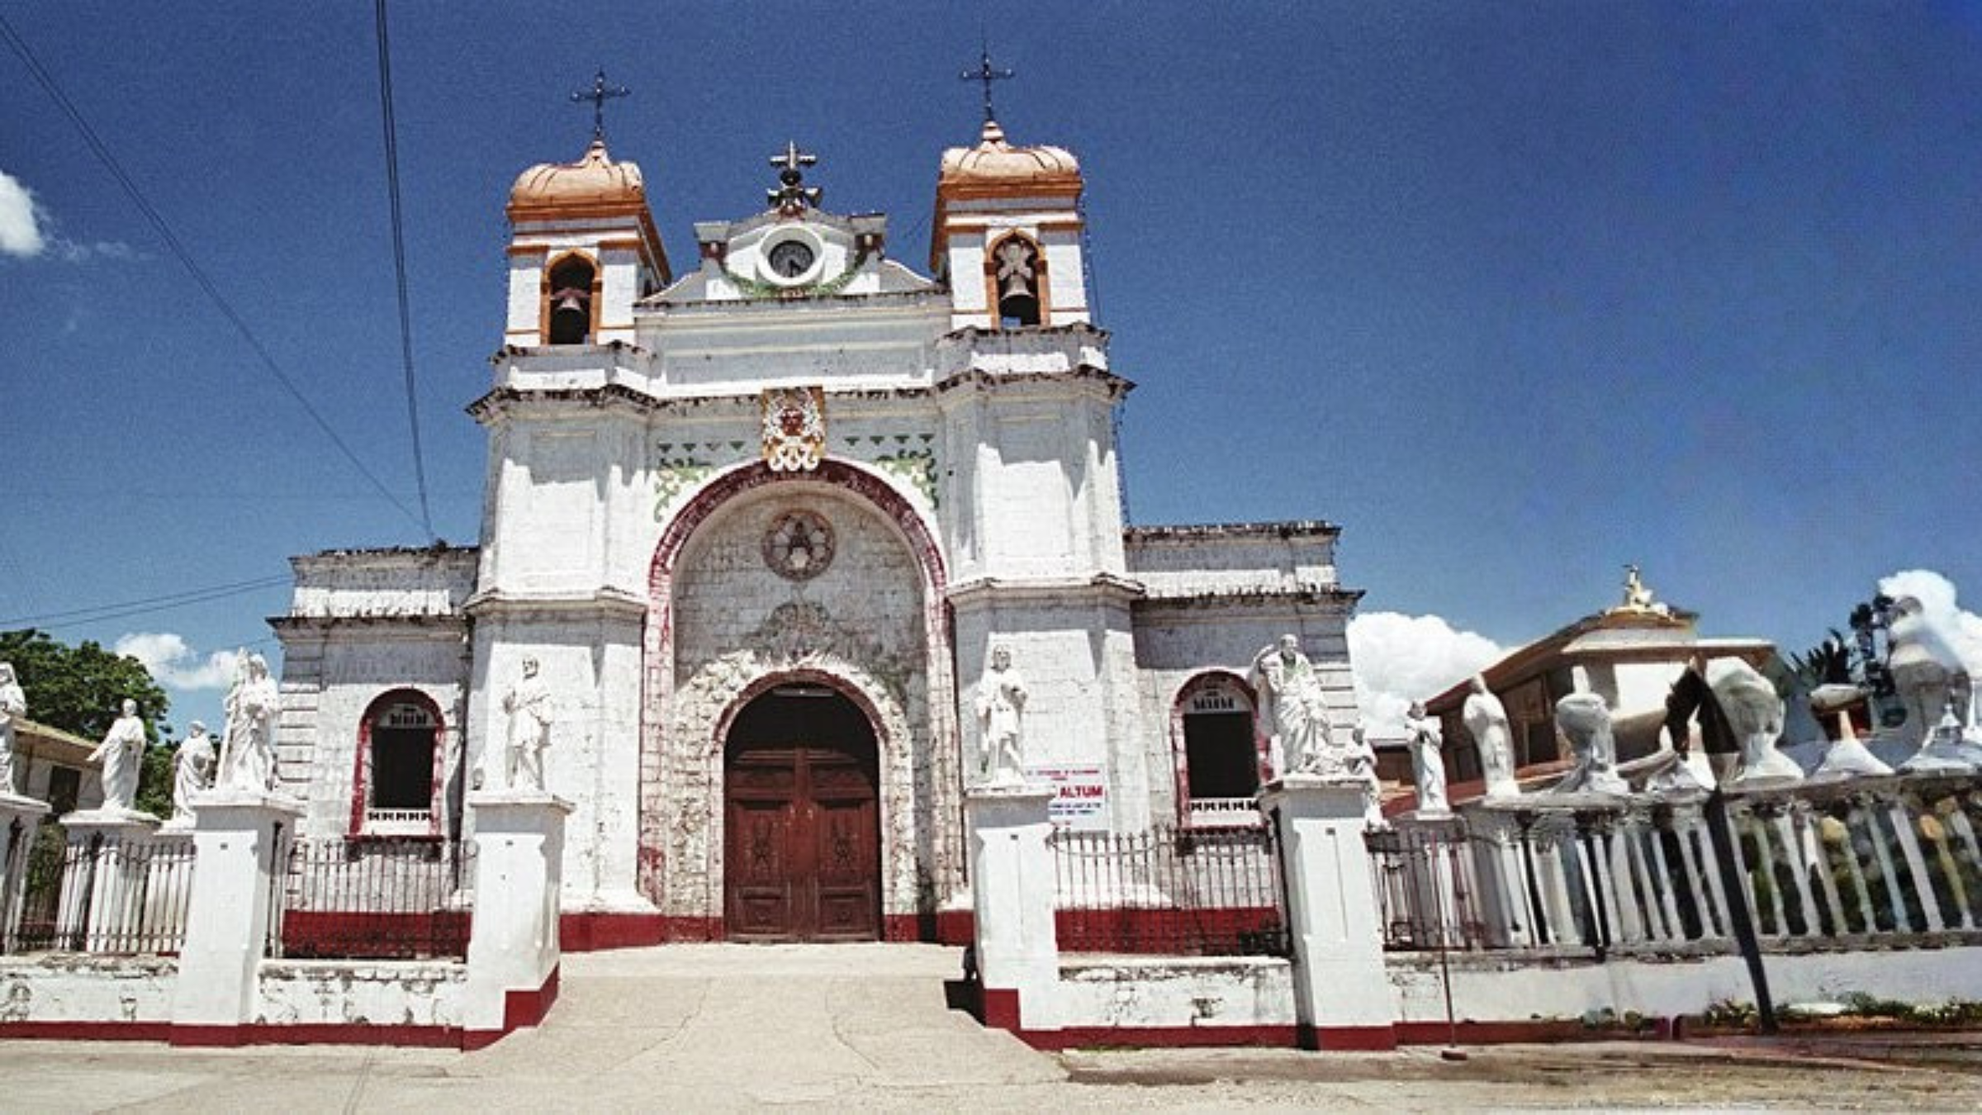
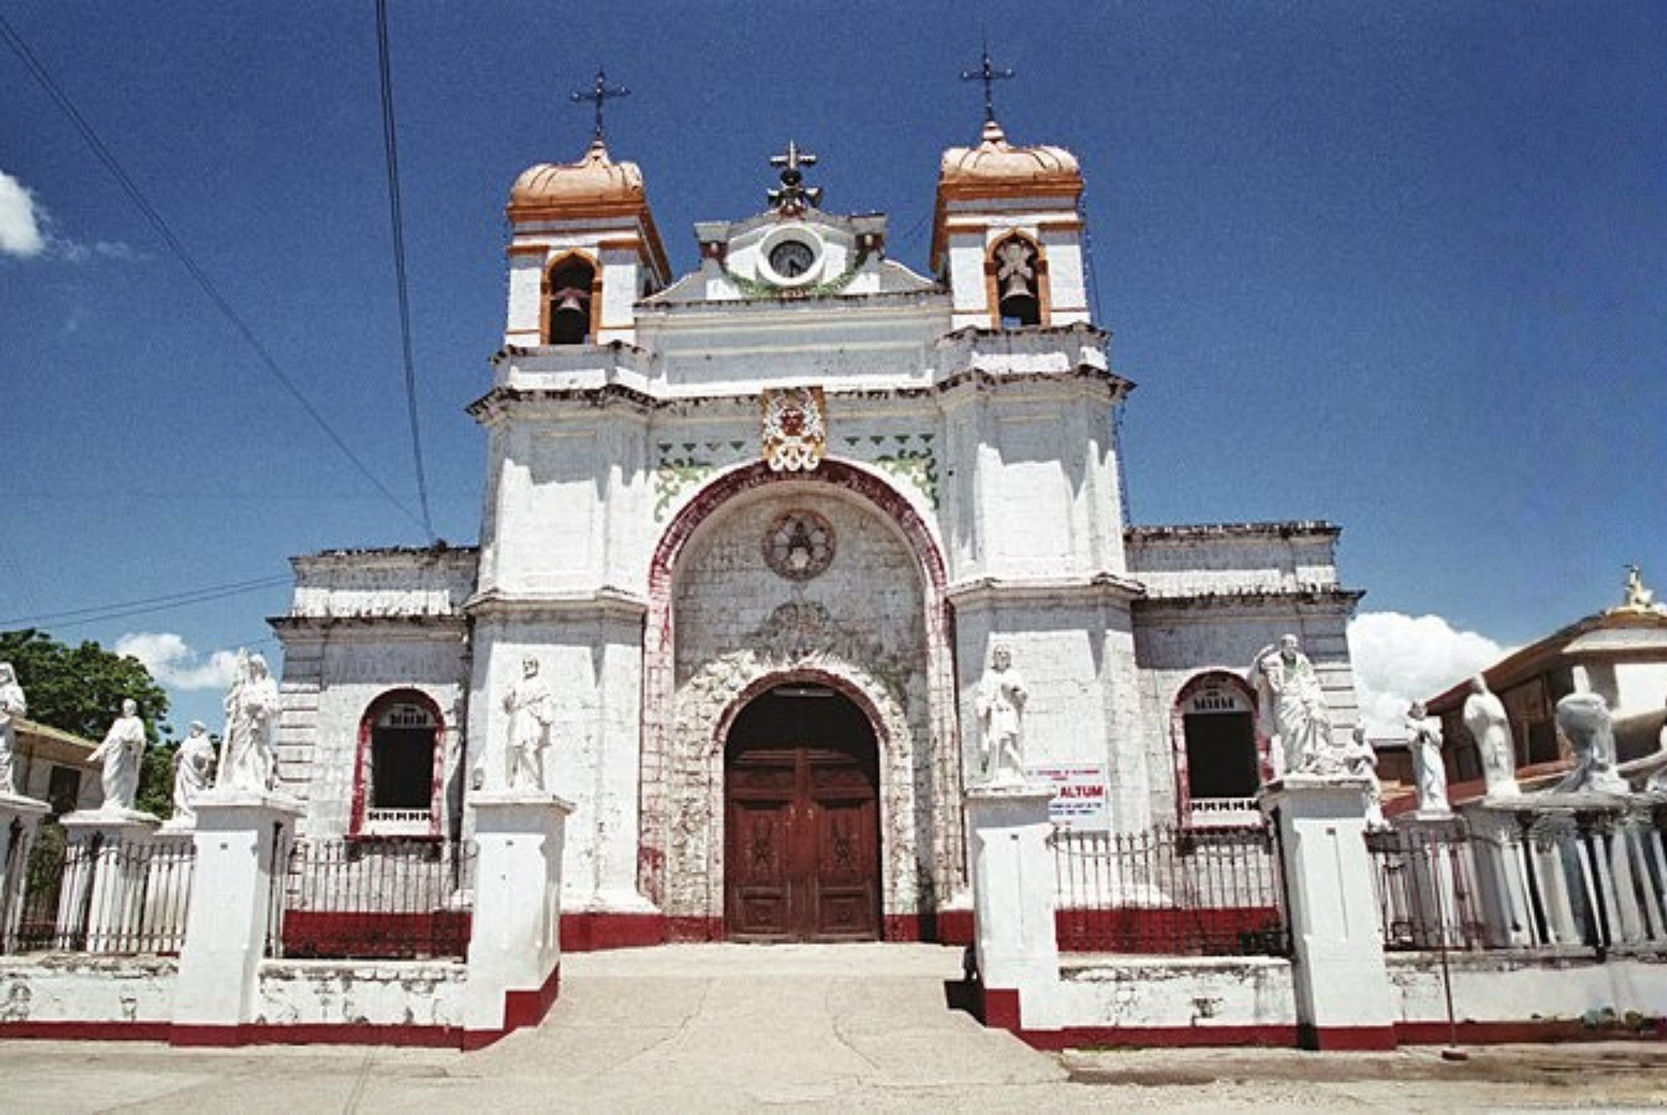
ui: fully revamped HeritagePage, fixed image assset dimensions, optimized colors in VisionMissionPage

diff --git a/src/pages/HeritagePage.jsx b/src/pages/HeritagePage.jsx
@@ -1,10 +1,11 @@
 import React, { useState } from 'react';
 import { ArrowLeft, ArrowRight, MapPin } from "lucide-react";
+import { motion } from "framer-motion";
 
 // Import images from your assets folder
 import image1 from "../assets/tower.png";
 import image2 from "../assets/navarra.png";
-import image3 from "../assets/daanglungsod.png";
+import image3 from "../assets/daanglungsod.png"; 
 import image4 from "../assets/ruins.png";
 import image5 from "../assets/fishing.png";
 import image6 from "../assets/urchin.png";
@@ -23,21 +24,21 @@ export default function HeritagePage() {
       image: image2,
       category: "Literary Heritage",
       heading: "The Legacy of Marcel Navarra",
-      subtext: "Walk the very shores that breathed life into modern Cebuano fiction. Known reverently as the \"Father of Modern Cebuano Literature,\" Marcel Navarra transformed the quiet, sun-drenched landscapes of Tuyom into the backdrop for some of the most influential stories in the Philippine canon. His pioneering use of realism allowed the everyday struggles, triumphs, and humors of the local fisherfolk and farmers to take center stage, forever dignifying the Visayan identity on the printed page. To visit Tuyom is to walk through a living library, where the salt air and the rustle of the palms still echo the rhythmic prose of Navarra’s most cherished works.\n\nFor the literary traveler and the culturally curious, Tuyom offers a rare chance to see the world through a master storyteller’s eyes. As you explore the barangay's coastal stretches and heritage sites, you aren't just seeing a beach; you are experiencing the \"Tuyom\" of Navarra’s imagination—a place where tradition meets the complexities of the modern world. We invite you to sit by the water, open a collection of his stories, and feel the deep, intellectual pulse of a community that served as the muse for a literary revolution. Discover the soul of Cebuano letters in the place where it all began."
+      subtext: "Walk the very shores that breathed life into modern Cebuano fiction. Known reverently as the \"Father of Modern Cebuano Literature,\" Marcel Navarra transformed the quiet, sun-drenched landscapes of Tuyom into the backdrop for some of the most influential stories in the Philippine canon. His pioneering use of realism allowed the everyday struggles, triumphs, and humors of the local fisherfolk and farmers to take center stage, forever dignifying the Visayan identity on the printed page. To visit Tuyom is to walk through a living library, where the salt air and the rustle of the palms still echo the rhythmic prose of Navarra’s most cherished works.\n\nFor the literary traveler and the culturally curious, Tuyom offers a rare chance to see the world through a master storyteller’s eyes. As you explore the barangay's coastal stretches and heritage sites, you aren't just seeing a beach; you are experiencing the \"Tuyom\" of Navarra’s imagination, a place where tradition meets the complexities of the modern world. We invite you to sit by the water, open a collection of his stories, and feel the deep, intellectual pulse of a community that served as the muse for a literary revolution. Discover the soul of Cebuano letters in the place where it all began."
     },
     {
       id: 3,
       image: image3,
       category: "Heritage Site",
       heading: "Daanglungsod",
-      subtext: "Step onto the hallowed grounds of Daanglungsod, the original heart of Carcar. Long before the city center moved inland, this coastal stretch in Tuyom served as the primary settlement for the early Carcaranons. Known as the \"Old Town,\" Daanglungsod is a landscape where history is etched into the very soil. It was here that the first community took root, braving the elements and the tides to establish a bustling seaside village. Today, walking through this area feels like a journey through time, offering visitors a rare glimpse into the foundational years of one of Cebu’s most storied cities.\n\nAs you wander through the quiet lanes of Daanglungsod, you are walking the same paths as the ancestors who built Carcar’s enduring legacy. This area is a living testament to resilience, marking the site where the community once thrived before relocating to seek refuge from the pirate raids of the colonial era. For history enthusiasts and cultural explorers, Daanglungsod provides a profound sense of place—a quiet, reflective corner of Tuyom where the echoes of the past meet the gentle sea breeze. It is a must-visit destination for anyone seeking to understand the true origins and the seafaring soul of the region."
+      subtext: "Step onto the hallowed grounds of Daanglungsod, the original heart of Carcar. Long before the city center moved inland, this coastal stretch in Tuyom served as the primary settlement for the early Carcaranons. Known as the \"Old Town,\" Daanglungsod is a landscape where history is etched into the very soil. It was here that the first community took root, braving the elements and the tides to establish a bustling seaside village. Today, walking through this area feels like a journey through time, offering visitors a rare glimpse into the foundational years of one of Cebu’s most storied cities.\n\nAs you wander through the quiet lanes of Daanglungsod, you are walking the same paths as the ancestors who built Carcar’s enduring legacy. This area is a living testament to resilience, marking the site where the community once thrived before relocating to seek refuge from the pirate raids of the colonial era. For history enthusiasts and cultural explorers, Daanglungsod provides a profound sense of place. A quiet, reflective corner of Tuyom where the echoes of the past meet the gentle sea breeze. It is a must-visit destination for anyone seeking to understand the true origins and the seafaring soul of the region."
     },
     {
       id: 4,
       image: image4,
       category: "Religious Heritage",
       heading: "The Inayangan Visita Ruins",
-      subtext: "Nestled near the historic borders of Tuyom lies the Inayangan Visita Ruins, a site that whispers the stories of Carcar’s earliest spiritual awakening. These weathered foundations mark the location of one of the first visitas, or mission chapels, established by Augustinian friars in the late 16th century. Long before the grand stone cathedrals of the city center were even a blueprint, these humble walls served as the religious and social anchor for the coastal settlers of the \"Old Town.\" Today, the moss-covered stones stand as a sacred portal to the past, inviting visitors to reflect on the deep-rooted faith and endurance of a community that stood its ground against the tides of time and colonial transition.\n\nA visit to the Inayangan ruins is a journey into the \"hidden\" heritage of the region, offering a serene and contemplative atmosphere far from the usual tourist trails. As you stand among the remnants of this ancient sanctuary, you are touching the very bedrock of Cebuano history—a place where indigenous culture and Spanish influence first converged. For those who seek to discover the authentic, unvarnished soul of Tuyom, these ruins provide a powerful connection to the ancestors who gathered here for strength and solace. It is an essential stop for heritage seekers looking to uncover the foundational chapters of the Carcaranon narrative."
+      subtext: "Nestled near the historic borders of Tuyom lies the Inayangan Visita Ruins, a site that whispers the stories of Carcar’s earliest spiritual awakening. These weathered foundations mark the location of one of the first visitas, or mission chapels, established by Augustinian friars in the late 16th century. Long before the grand stone cathedrals of the city center were even a blueprint, these humble walls served as the religious and social anchor for the coastal settlers of the \"Old Town.\" Today, the moss-covered stones stand as a sacred portal to the past, inviting visitors to reflect on the deep-rooted faith and endurance of a community that stood its ground against the tides of time and colonial transition.\n\nA visit to the Inayangan ruins is a journey into the \"hidden\" heritage of the region, offering a serene and contemplative atmosphere far from the usual tourist trails. As you stand among the remnants of this ancient sanctuary, you are touching the very bedrock of Cebuano history, a place where indigenous culture and Spanish influence first converged. For those who seek to discover the authentic, unvarnished soul of Tuyom, these ruins provide a powerful connection to the ancestors who gathered here for strength and solace. It is an essential stop for heritage seekers looking to uncover the foundational chapters of the Carcaranon narrative."
     },
     {
       id: 5,
@@ -51,7 +52,7 @@ export default function HeritagePage() {
       image: image6,
       category: "Culinary Heritage",
       heading: "The Sea-Inspired Flavors of Tuyom",
-      subtext: "Embark on a culinary journey that captures the very essence of the Bohol Strait with the Sea-Inspired Cuisine of Tuyom. Here, the \"catch of the day\" is more than a meal—it is a celebration of the barangay’s deep-rooted maritime heritage. Local kitchens have perfected the art of the kinilaw and tinowa, using traditional methods that highlight the absolute freshness of the sea’s bounty. But the true star of the local table is the Tuyom (sea urchin), the very namesake of the barangay. Served fresh from the reefs, these \"jewels of the sea\" offer a delicate, buttery richness that has sustained and delighted locals for centuries, making every bite a direct connection to the coastal waters that define this community.\n\nDining in Tuyom is an invitation to slow down and savor the authentic spirit of the \"Old Town.\" As you enjoy a feast by the shore, you are participating in a timeless ritual that links the modern traveler to the generations of fisherfolk who first settled these banks. The unique flavors found here—salty, tangy, and profoundly fresh—reflect a culture that respects the ocean's rhythm and rewards those who live by its tides. For the adventurous foodie and the cultural explorer alike, a taste of Tuyom’s sea-inspired offerings provides a sensory map of the region’s history, served with the warm hospitality and seaside charm that only this historic barangay can provide."
+      subtext: "Embark on a culinary journey that captures the very essence of the Bohol Strait with the Sea-Inspired Cuisine of Tuyom. Here, the \"catch of the day\" is more than a meal, it is a celebration of the barangay’s deep-rooted maritime heritage. Local kitchens have perfected the art of the kinilaw and tinowa, using traditional methods that highlight the absolute freshness of the sea’s bounty. But the true star of the local table is the Tuyom (sea urchin), the very namesake of the barangay. Served fresh from the reefs, these \"jewels of the sea\" offer a delicate, buttery richness that has sustained and delighted locals for centuries, making every bite a direct connection to the coastal waters that define this community.\n\nDining in Tuyom is an invitation to slow down and savor the authentic spirit of the \"Old Town.\" As you enjoy a feast by the shore, you are participating in a timeless ritual that links the modern traveler to the generations of fisherfolk who first settled these banks. The unique flavors found here are salty, tangy, and profoundly fresh, reflects a culture that respects the ocean's rhythm and rewards those who live by its tides. For the adventurous foodie and the cultural explorer alike, a taste of Tuyom’s sea-inspired offerings provides a sensory map of the region’s history, served with the warm hospitality and seaside charm that only this historic barangay can provide."
     }
   ];
 
@@ -69,54 +70,142 @@ export default function HeritagePage() {
     );
   };
 
+  // Framer Motion Variants for the Hero Section
+  const containerVariants = {
+    hidden: { opacity: 0 },
+    show: {
+      opacity: 1,
+      transition: {
+        staggerChildren: 0.15,
+        delayChildren: 0.1,
+      },
+    },
+  };
+
+  const itemVariants = {
+    hidden: { opacity: 0, y: 20 },
+    show: { 
+      opacity: 1, 
+      y: 0, 
+      transition: { duration: 0.6, ease: [0.22, 1, 0.36, 1] } 
+    },
+  };
+
   return (
-    <div className="flex flex-col w-full bg-stone-900">
-      <div className="relative w-full h-[600px] md:h-[700px] lg:h-[800px] overflow-hidden">
+    <div className="w-full min-h-screen bg-gradient-to-t from-emerald-300 via-teal-200 to-white font-sans flex flex-col">
+      
+      {/* ================= HERO SECTION ================= */}
+      <section className="relative flex flex-col justify-center pt-20">
+        <div className="max-w-6xl mx-auto px-6 w-full">
+          <motion.div
+            initial="hidden"
+            animate="show"
+            variants={containerVariants}
+            className="max-w-3xl"
+          >
+            {/* Darkened the text colors slightly so they pop against the light green gradient */}
+            <motion.p variants={itemVariants} className="text-emerald-800 font-extrabold text-lg uppercase tracking-widest mb-4">
+              Our Legacy
+            </motion.p>
+
+            <motion.h1 variants={itemVariants} className="text-5xl md:text-7xl lg:text-8xl font-black text-stone-900 tracking-tight leading-[1.05] mb-8 drop-shadow-sm">
+              <span className="text-transparent bg-clip-text bg-gradient-to-r from-emerald-800 via-teal-700 to-emerald-900">
+                Tuyom's
+              </span> <br />
+              <span className="text-transparent bg-clip-text bg-gradient-to-r from-[#E17100] via-[#FF9F43] to-[#E17100]">
+                Heritage
+              </span>
+            </motion.h1>
+
+            <motion.p variants={itemVariants} className="text-lg md:text-xl text-emerald-900 max-w-2xl leading-relaxed font-medium">
+              Discover the rich history, vibrant culture, and timeless traditions that shape the soul of our coastal community.
+            </motion.p>
+          </motion.div>
+        </div>
+      </section>
+
+      <motion.div
+          initial={{ scaleX: 0 }}
+          whileInView={{ scaleX: 1 }}
+          viewport={{ once: true }}
+          transition={{ duration: 0.8, delay: 0.2 }}
+          className="h-1 bg-gradient-to-r from-transparent via-emerald-800 to-transparent my-25"
+        ></motion.div>
+
+      {/* ================= CAROUSEL SECTION ================= */}
+      <section className="w-full flex flex-col relative pb-8">
         
-        {/* Background Image */}
-        <img 
-          src={slideData[currentIndex].image} 
-          alt={slideData[currentIndex].heading}
-          className="absolute inset-0 w-full h-full object-cover transition-opacity duration-700"
-        />
-        
-        {/* Floating Text Box Overlay */}
-        <div className="absolute right-4 sm:right-12 md:right-20 lg:right-32 top-8 bottom-8 md:top-12 md:bottom-12 w-[90%] sm:w-[75%] md:w-[50%] lg:w-[40%] bg-gradient-to-br from-emerald-500/60 to-emerald-800/70 backdrop-blur-md flex flex-col justify-start overflow-y-auto shadow-2xl rounded-2xl md:rounded-3xl transition-all duration-500 [&::-webkit-scrollbar]:hidden [-ms-overflow-style:none] [scrollbar-width:none]">
+        <div className="w-full flex-1 flex items-center justify-center relative px-16 md:px-24">
           
-          {/* Inner Content Wrapper for consistent padding */}
-          <div className="p-8 md:p-10 flex flex-col w-full h-full">
-            <div className="w-10 h-1.5 bg-emerald-300 rounded-full mb-5 shrink-0 mt-auto pt-4 md:pt-0"></div>
-            <span className="inline-flex w-fit items-center gap-1.5 px-3 py-1 mb-4 text-[10px] font-black uppercase tracking-widest text-emerald-900 bg-emerald-100/90 rounded-md shrink-0">
-              <MapPin size={12} strokeWidth={2.5} />
-              {slideData[currentIndex].category}
-            </span>
-            <h2 className="font-heading text-3xl md:text-4xl lg:text-5xl font-black text-white tracking-tight mb-4 shrink-0 drop-shadow-sm">
-              {slideData[currentIndex].heading}
-            </h2>
-            <p className="text-sm sm:text-base text-emerald-50 font-medium leading-relaxed whitespace-pre-line break-words drop-shadow-sm pb-4 md:pb-0 mb-auto">
-              {slideData[currentIndex].subtext}
-            </p>
+          {/* Left Navigation Arrow */}
+          <button 
+            onClick={handlePrevious}
+            className="absolute z-20 left-6 top-1/2 -translate-y-1/2 w-14 h-14 bg-black/40 hover:bg-black/60 rounded-full flex items-center justify-center text-white/90 hover:text-white transition-all focus:outline-none hover:scale-105 active:scale-95"
+            aria-label="Previous"
+          >
+            <ArrowLeft size={32} strokeWidth={2.5} />
+          </button>
+
+          <div className="w-full max-w-7xl h-[65vh] flex flex-col md:flex-row gap-8 md:gap-12">
+            
+            {/* Left Side: Image Asset */}
+            <div className="w-full md:w-1/2 h-full rounded-3xl overflow-hidden shadow-xl border-4 border-white bg-white">
+              <img 
+                key={currentIndex} 
+                src={slideData[currentIndex].image}
+                alt={slideData[currentIndex].heading}
+                className="w-full h-full object-cover transition-opacity duration-700"
+              />
+            </div>
+            
+            {/* Right Side: Text Content */}
+            <div className="w-full md:w-1/2 h-full bg-white border-4 border-white rounded-3xl p-8 md:p-12 flex flex-col shadow-xl overflow-y-auto [&::-webkit-scrollbar]:w-2 [&::-webkit-scrollbar-thumb]:bg-stone-300 [&::-webkit-scrollbar-thumb]:rounded-full">
+              
+              <span className="inline-flex w-fit items-center gap-1.5 px-3 py-1 mb-6 text-xs font-bold uppercase tracking-widest text-emerald-700 bg-emerald-50 rounded-md">
+                <MapPin size={14} strokeWidth={2.5} />
+                {slideData[currentIndex].category}
+              </span>
+              
+              <h2 className="text-3xl md:text-5xl font-black text-stone-900 tracking-tight mb-6 leading-tight">
+                {slideData[currentIndex].heading}
+              </h2>
+              
+              <p className="text-base md:text-lg text-stone-700 leading-relaxed whitespace-pre-line break-words text-justify">
+                {slideData[currentIndex].subtext}
+              </p>
+            </div>
+
           </div>
+
+          {/* Right Navigation Arrow */}
+          <button 
+            onClick={handleNext}
+            className="absolute z-20 right-6 top-1/2 -translate-y-1/2 w-14 h-14 bg-black/40 hover:bg-black/60 rounded-full flex items-center justify-center text-white/90 hover:text-white transition-all focus:outline-none hover:scale-105 active:scale-95"
+            aria-label="Next"
+          >
+            <ArrowRight size={32} strokeWidth={2.5} />
+          </button>
+
+        </div>
+
+        {/* Carousel Indicators */}
+        <div className="flex justify-center items-center h-16 mt-8 gap-3">
+          {slideData.map((_, index) => (
+            <button
+              key={index}
+              onClick={() => setCurrentIndex(index)}
+              className={`h-3 rounded-full transition-all duration-500 shadow-sm ${
+                index === currentIndex 
+                  ? 'bg-stone-800 w-10' 
+                  : 'bg-white hover:bg-stone-400 w-3'
+              }`}
+              aria-label={`Go to slide ${index + 1}`}
+            />
+          ))}
         </div>
         
-        {/* Navigation */}
-        <button 
-          onClick={handlePrevious}
-          className="absolute z-10 left-2 md:left-8 top-1/2 -translate-y-1/2 p-2 text-white/80 hover:text-white transition-colors focus:outline-none drop-shadow-[0_2px_8px_rgba(0,0,0,0.8)] hover:scale-110 active:scale-95 transition-transform"
-          aria-label="Previous"
-        >
-          <ArrowLeft size={48} strokeWidth={2.5} className="md:w-14 md:h-14" />
-        </button>
-        
-        <button 
-          onClick={handleNext}
-          className="absolute z-10 right-2 md:right-8 top-1/2 -translate-y-1/2 p-2 text-white/80 hover:text-white transition-colors focus:outline-none drop-shadow-[0_2px_8px_rgba(0,0,0,0.8)] hover:scale-110 active:scale-95 transition-transform"
-          aria-label="Next"
-        >
-          <ArrowRight size={48} strokeWidth={2.5} className="md:w-14 md:h-14" />
-        </button>
-        
-      </div>
+      </section>
+
     </div>
   );
 }

diff --git a/src/pages/VisionMission.jsx b/src/pages/VisionMission.jsx
@@ -75,11 +75,11 @@ export default function VisionMission() {
             alt="Vision & Mission"
             className="w-full h-full object-cover opacity-35"
           />
-          <div className="absolute inset-0 bg-gradient-to-t from-[#0A2318] via-[#0A2318]/80 to-transparent"></div>
+          <div className="absolute inset-0 bg-gradient-to-t from-[#E27515] via-[#0A2318]/80 to-transparent opacity-35"></div>
           <div className="absolute inset-0 bg-gradient-to-r from-[#0A2318]/95 via-[#0A2318]/50 to-transparent"></div>
         </div>
 
-        <div className="max-w-6xl mx-auto px-6 w-full relative z-10 pt-8 pb-32">
+        <div className="max-w-6xl mx-auto px-6 w-full relative z-10 pt-8">
           <motion.div
             initial="hidden"
             animate="show"
@@ -103,9 +103,6 @@ export default function VisionMission() {
               Guided by our commitment to progress, we envision a barangay where every resident thrives in a safe, inclusive, and sustainable community.
             </motion.p>
 
-            <motion.div variants={itemVariants} className="flex flex-wrap items-center gap-4">
-              
-            </motion.div>
           </motion.div>
         </div>
       </section>
